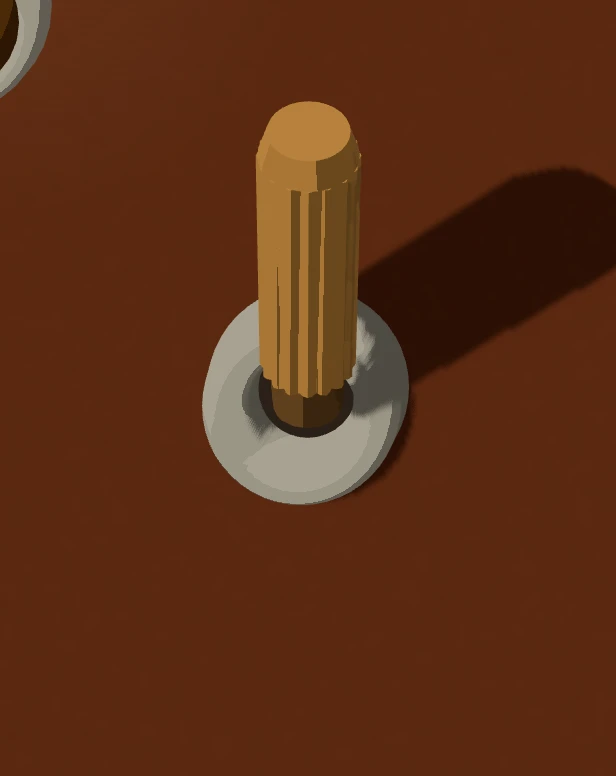
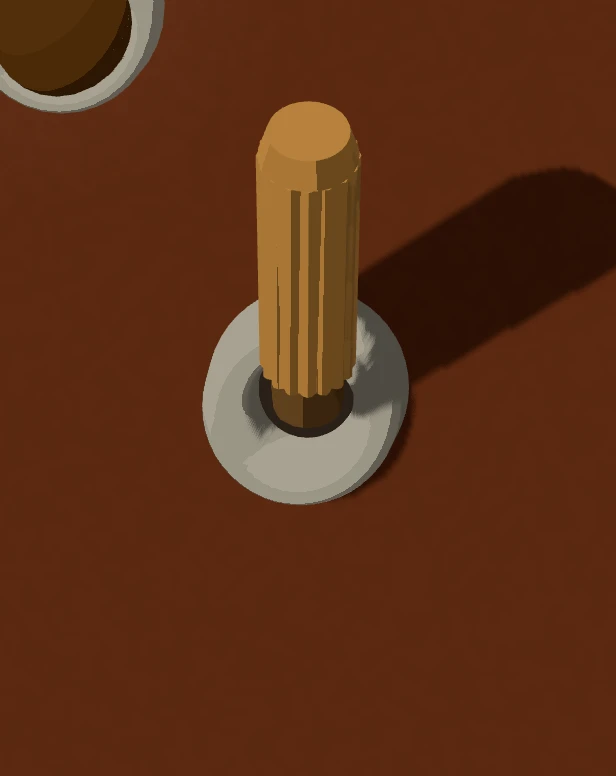
Drive switches: lamp sits right beside its ON label

Changed region(s): [[0.0, 0.0, 0.2776, 0.1546]]

diff --git a/game/tools/hud-bake/parts/drive.js b/game/tools/hud-bake/parts/drive.js
@@ -156,7 +156,7 @@ const brass = lit(BRASS), brassDeep = lit(BRASS_DEEP);
 const SW_RING = 1.275, SW_LEVER = 2.3, SW_LEVER_W = 1.9, SW_W = 28, SW_HALF_H = 19;
 const SW_CENTER_Y = 703;
 const LABEL_ROW = [661, 673], ON_ROW = [674, 685], OFF_ROW = [719.5, 729];
-const PRINT_HALF_W = 13, LAMP_R = 5, LAMP_GAP = 4;
+const PRINT_HALF_W = 13, ON_HALF_W = 8, LAMP_R = 5, LAMP_GAP = 2;
 const SW_BASE = '#9a9a92', SW_HOLE = '#2a2017';
 const SW_Z = Z_PANEL + 0.004;
 const SW_TILT = 0.75;
@@ -191,7 +191,7 @@ const flutedStem = (radius, length, flutes) => {
 };
 const rockers = ROCKERS.map(([x0, , x1]) => {
   const cx = (x0 + x1) / 2, L = P.at(SW_Z), u = (v) => L.len(v * SW_RING), ul = (v) => L.len(v * SW_LEVER), uw = (v) => L.len(v * SW_LEVER_W);
-  lampDome(cx - PRINT_HALF_W - LAMP_GAP - LAMP_R, (ON_ROW[0] + ON_ROW[1]) / 2);
+  lampDome(cx - ON_HALF_W - LAMP_GAP - LAMP_R, (ON_ROW[0] + ON_ROW[1]) / 2);
   const px = L.ux(cx), py = L.uy(SW_CENTER_Y);
   const profile = [[2.4, 0], [2.4, 0.5], [2.9, 1.3], [4.2, 1.4], [4.8, 0.9], [4.9, 0]].map(([x, y]) => new THREE.Vector2(u(x), u(y)));
   const ringMesh = new THREE.Mesh(new THREE.LatheGeometry(profile, 48), lit(SW_BASE, { side: THREE.DoubleSide }));
@@ -235,9 +235,9 @@ const zones = {
 rockers.forEach((r, i) => {
   const rowBox = (row, half) => [r.cx - half, row[0], r.cx + half, row[1]];
   zones[['manual', 'lights', 'overdrive'][i]] = zoneFor(rowBox(LABEL_ROW, LABEL_HALF_W), LABEL_Z);
-  zones[`on${i}`] = zoneFor(rowBox(ON_ROW, PRINT_HALF_W), LABEL_Z);
+  zones[`on${i}`] = zoneFor(rowBox(ON_ROW, ON_HALF_W), LABEL_Z);
   zones[`off${i}`] = zoneFor(rowBox(OFF_ROW, PRINT_HALF_W), LABEL_Z);
-  const lampX = r.cx - PRINT_HALF_W - LAMP_GAP - LAMP_R, lampY = (ON_ROW[0] + ON_ROW[1]) / 2;
+  const lampX = r.cx - ON_HALF_W - LAMP_GAP - LAMP_R, lampY = (ON_ROW[0] + ON_ROW[1]) / 2;
   zones[`lamp${i}`] = zoneFor([lampX - LAMP_R, lampY - LAMP_R, lampX + LAMP_R, lampY + LAMP_R], SW_Z + 0.004);
 });
 const sprites = { cool: { crop: view.cropAround(P.quad(view, COOL.box, Z_PANEL + 0.03), 8), frames: ['cool-up', 'cool-down'] } };
